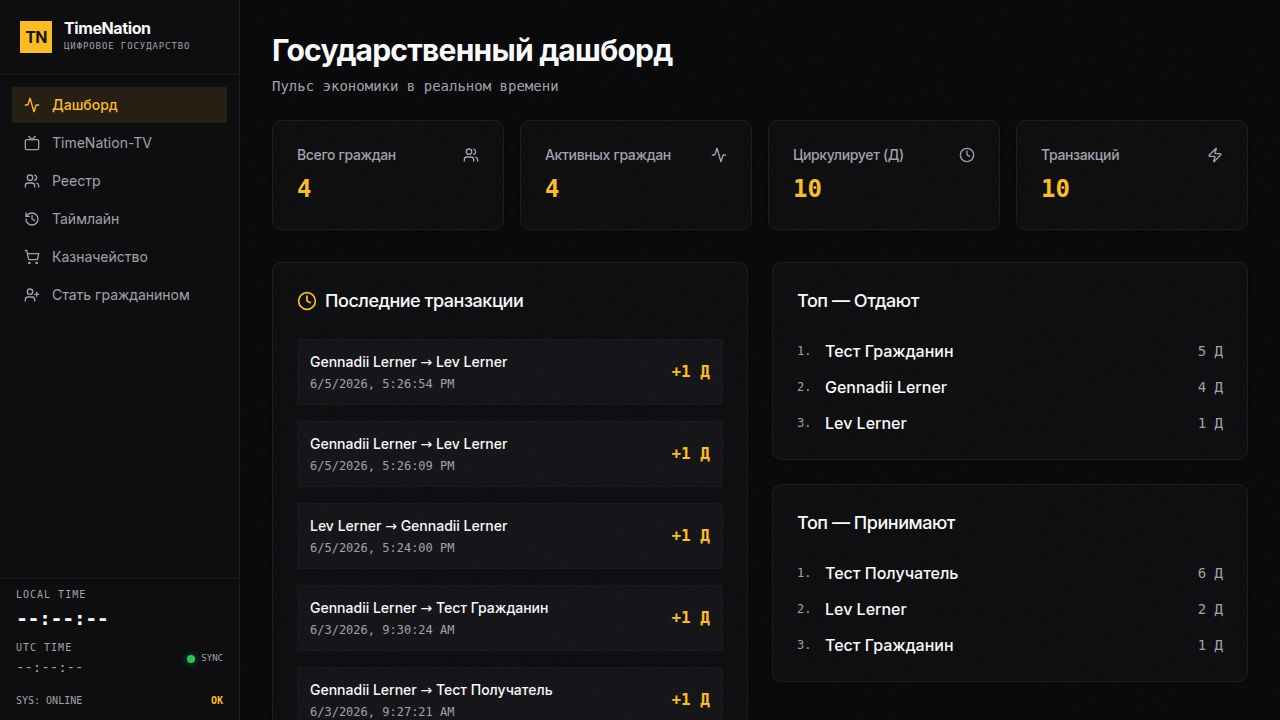
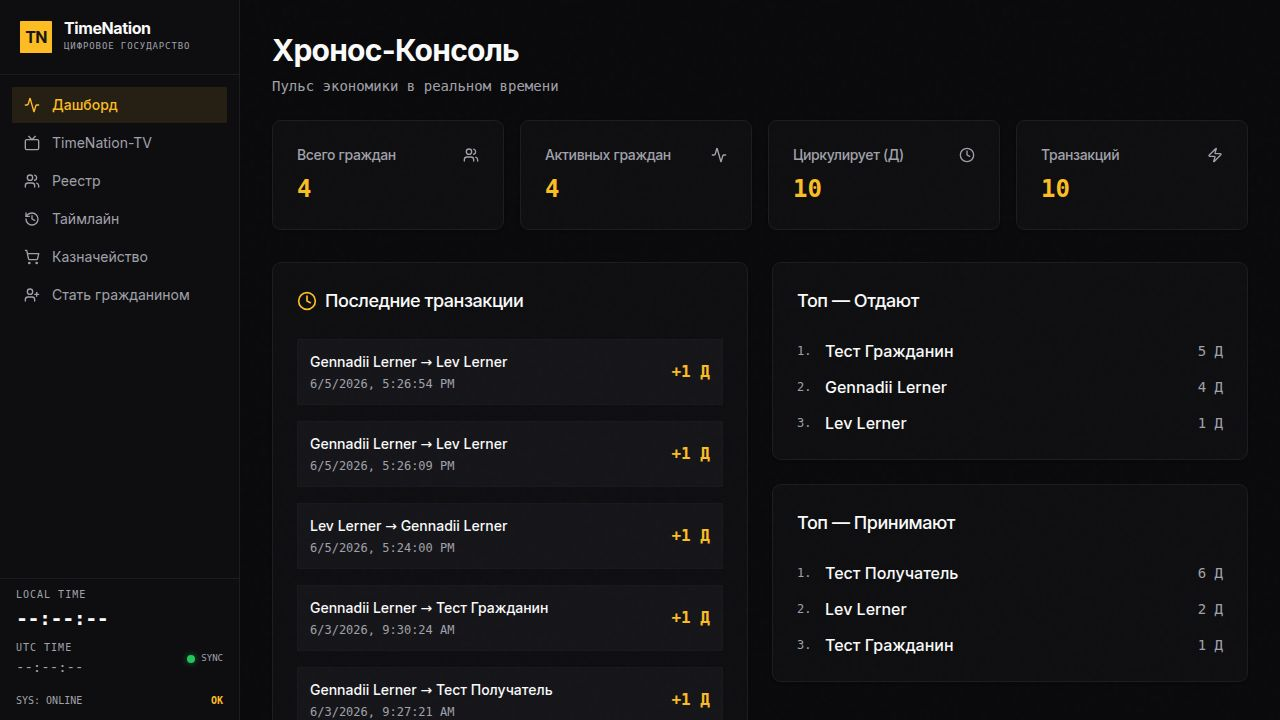
Переименовать «Государственный дашборд» → «Хронос-Консоль»
Задача: заменить текстовую метку «Государственный дашборд» на «Хронос-Консоль»
во всех файлах проекта и перезапустить веб-фронтенд.

Изменения:
- artifacts/web/src/pages/Home.tsx, строка 14: заменён заголовок h1
  с «Государственный дашборд» на «Хронос-Консоль»

Глобальный поиск по проекту подтвердил, что это единственное вхождение строки.
Веб-workflow (artifacts/web: web) успешно перезапущен.

Отклонений от задания нет. Мобильное приложение не затронуто (строка там
отсутствовала, что соответствует описанию задачи).

Replit-Task-Id: e1bdd5b6-a8d7-4664-85a0-5c256ec17016

Changed region(s): [[0.1875, 0.0611, 0.5312, 0.0917]]

diff --git a/artifacts/web/src/pages/Home.tsx b/artifacts/web/src/pages/Home.tsx
@@ -11,7 +11,7 @@ export function Home() {
     <Layout>
       <div className="space-y-6">
         <div>
-          <h1 className="text-3xl font-bold tracking-tight">Государственный дашборд</h1>
+          <h1 className="text-3xl font-bold tracking-tight">Хронос-Консоль</h1>
           <p className="text-muted-foreground font-mono text-sm mt-2">Пульс экономики в реальном времени</p>
         </div>
 
